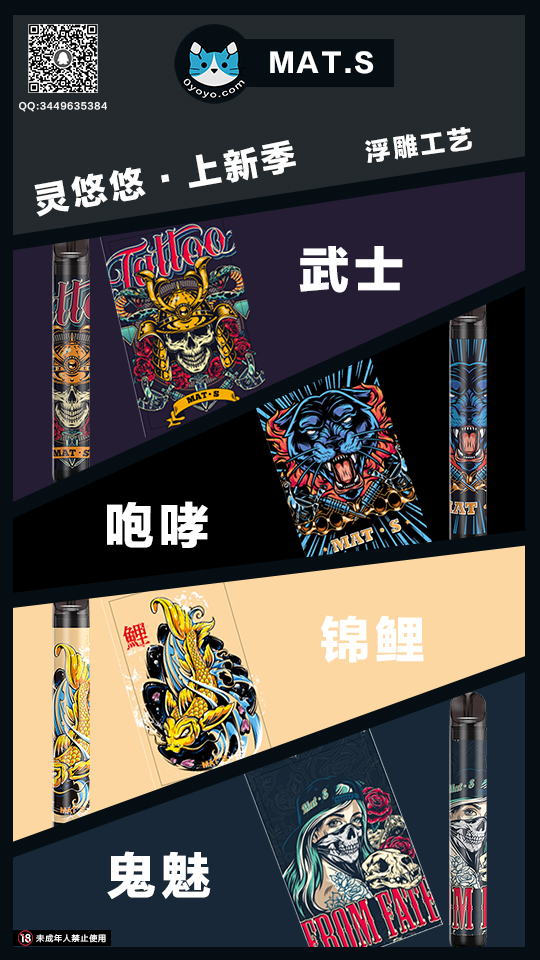
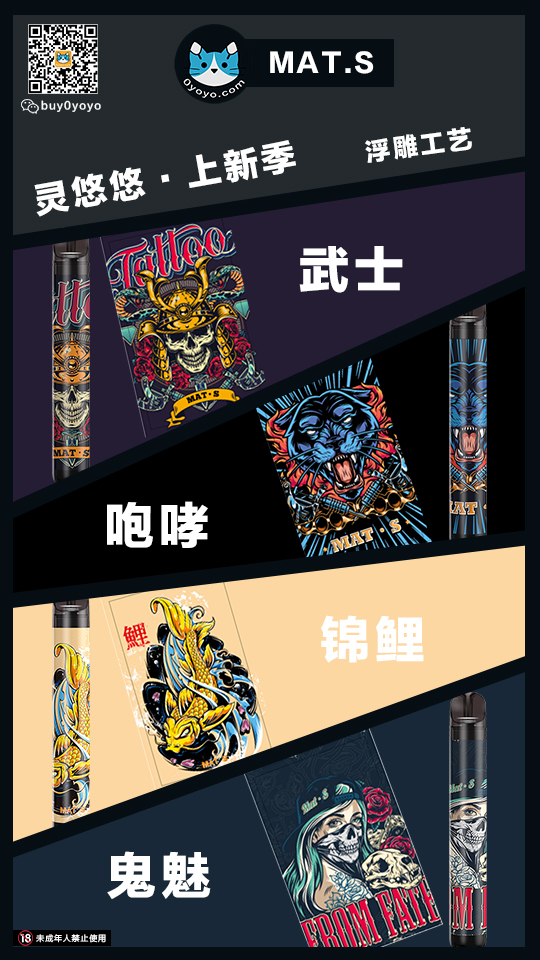
qq改新微信

Changed region(s): [[0.0296, 0.0, 0.2074, 0.125]]

diff --git a/index.html b/index.html
@@ -6,7 +6,7 @@
 	<head>
 		<title>MAT电子烟 | 灵悠悠</title>
 		<meta charset="utf-8" />
-        <meta name="keywords" content="MAT电子烟,MAT雾化杆,灵悠悠,灵悠悠小店,灵悠悠小卖,MAT迈特" />
+        <meta name="keywords" content="MAT电子烟,MAT雾化杆,灵悠悠,MAT迈特" />
         <meta name="description" content="MAT电子烟"/>
 		<meta name="viewport" content="width=device-width, initial-scale=1, user-scalable=no" />
         <meta name="baidu-site-verification" content="code-haktiunREi" />
@@ -28,7 +28,7 @@
 								<div class="content color0 span-3-75">
 									<h1 class="major">欢迎来到<br />
 									灵悠悠</h1>
-									<p>这里是 <strong>灵悠悠</strong>, 一家优品推荐服务商。目前主要推广<strong>MAT电子烟</strong>以及MAT品牌的零售与咨询服务。感兴趣的朋友欢迎加QQ：<strong>3449635384</strong>进行咨询。</p>
+									<p>这里是 <strong>灵悠悠</strong>, 一家优品推荐服务商。目前主要推广<strong>MAT电子烟</strong>以及MAT品牌的零售与咨询服务。感兴趣的朋友欢迎加微信：<strong>buy0yoyo</strong>进行咨询。</p>
 									<ul class="actions">
 										<li><a href="#first" class="button primary color1 circle icon solid fa-angle-right">Next</a></li>
 									</ul>
@@ -121,7 +121,7 @@
 								<div class="inner columns divided">
 									<div class="span-1-5">
 										<ul class="contact-icons color2">
-											<!-- <li class="icon brands fa fa-weixin">love0yoyo</li>-->
+											<li class="icon brands fa fa-weixin">buy0yoyo</li>
                                             <li class="fa fa-phone">17896059939</li>
 											<li class="icon brands fa fa-qq">3449635384</li>
 											<li class="fa fa-envelope-open"><a href="mailto:dreeye@gmail.com">0yoyobuy@gmail.com</a></li>
